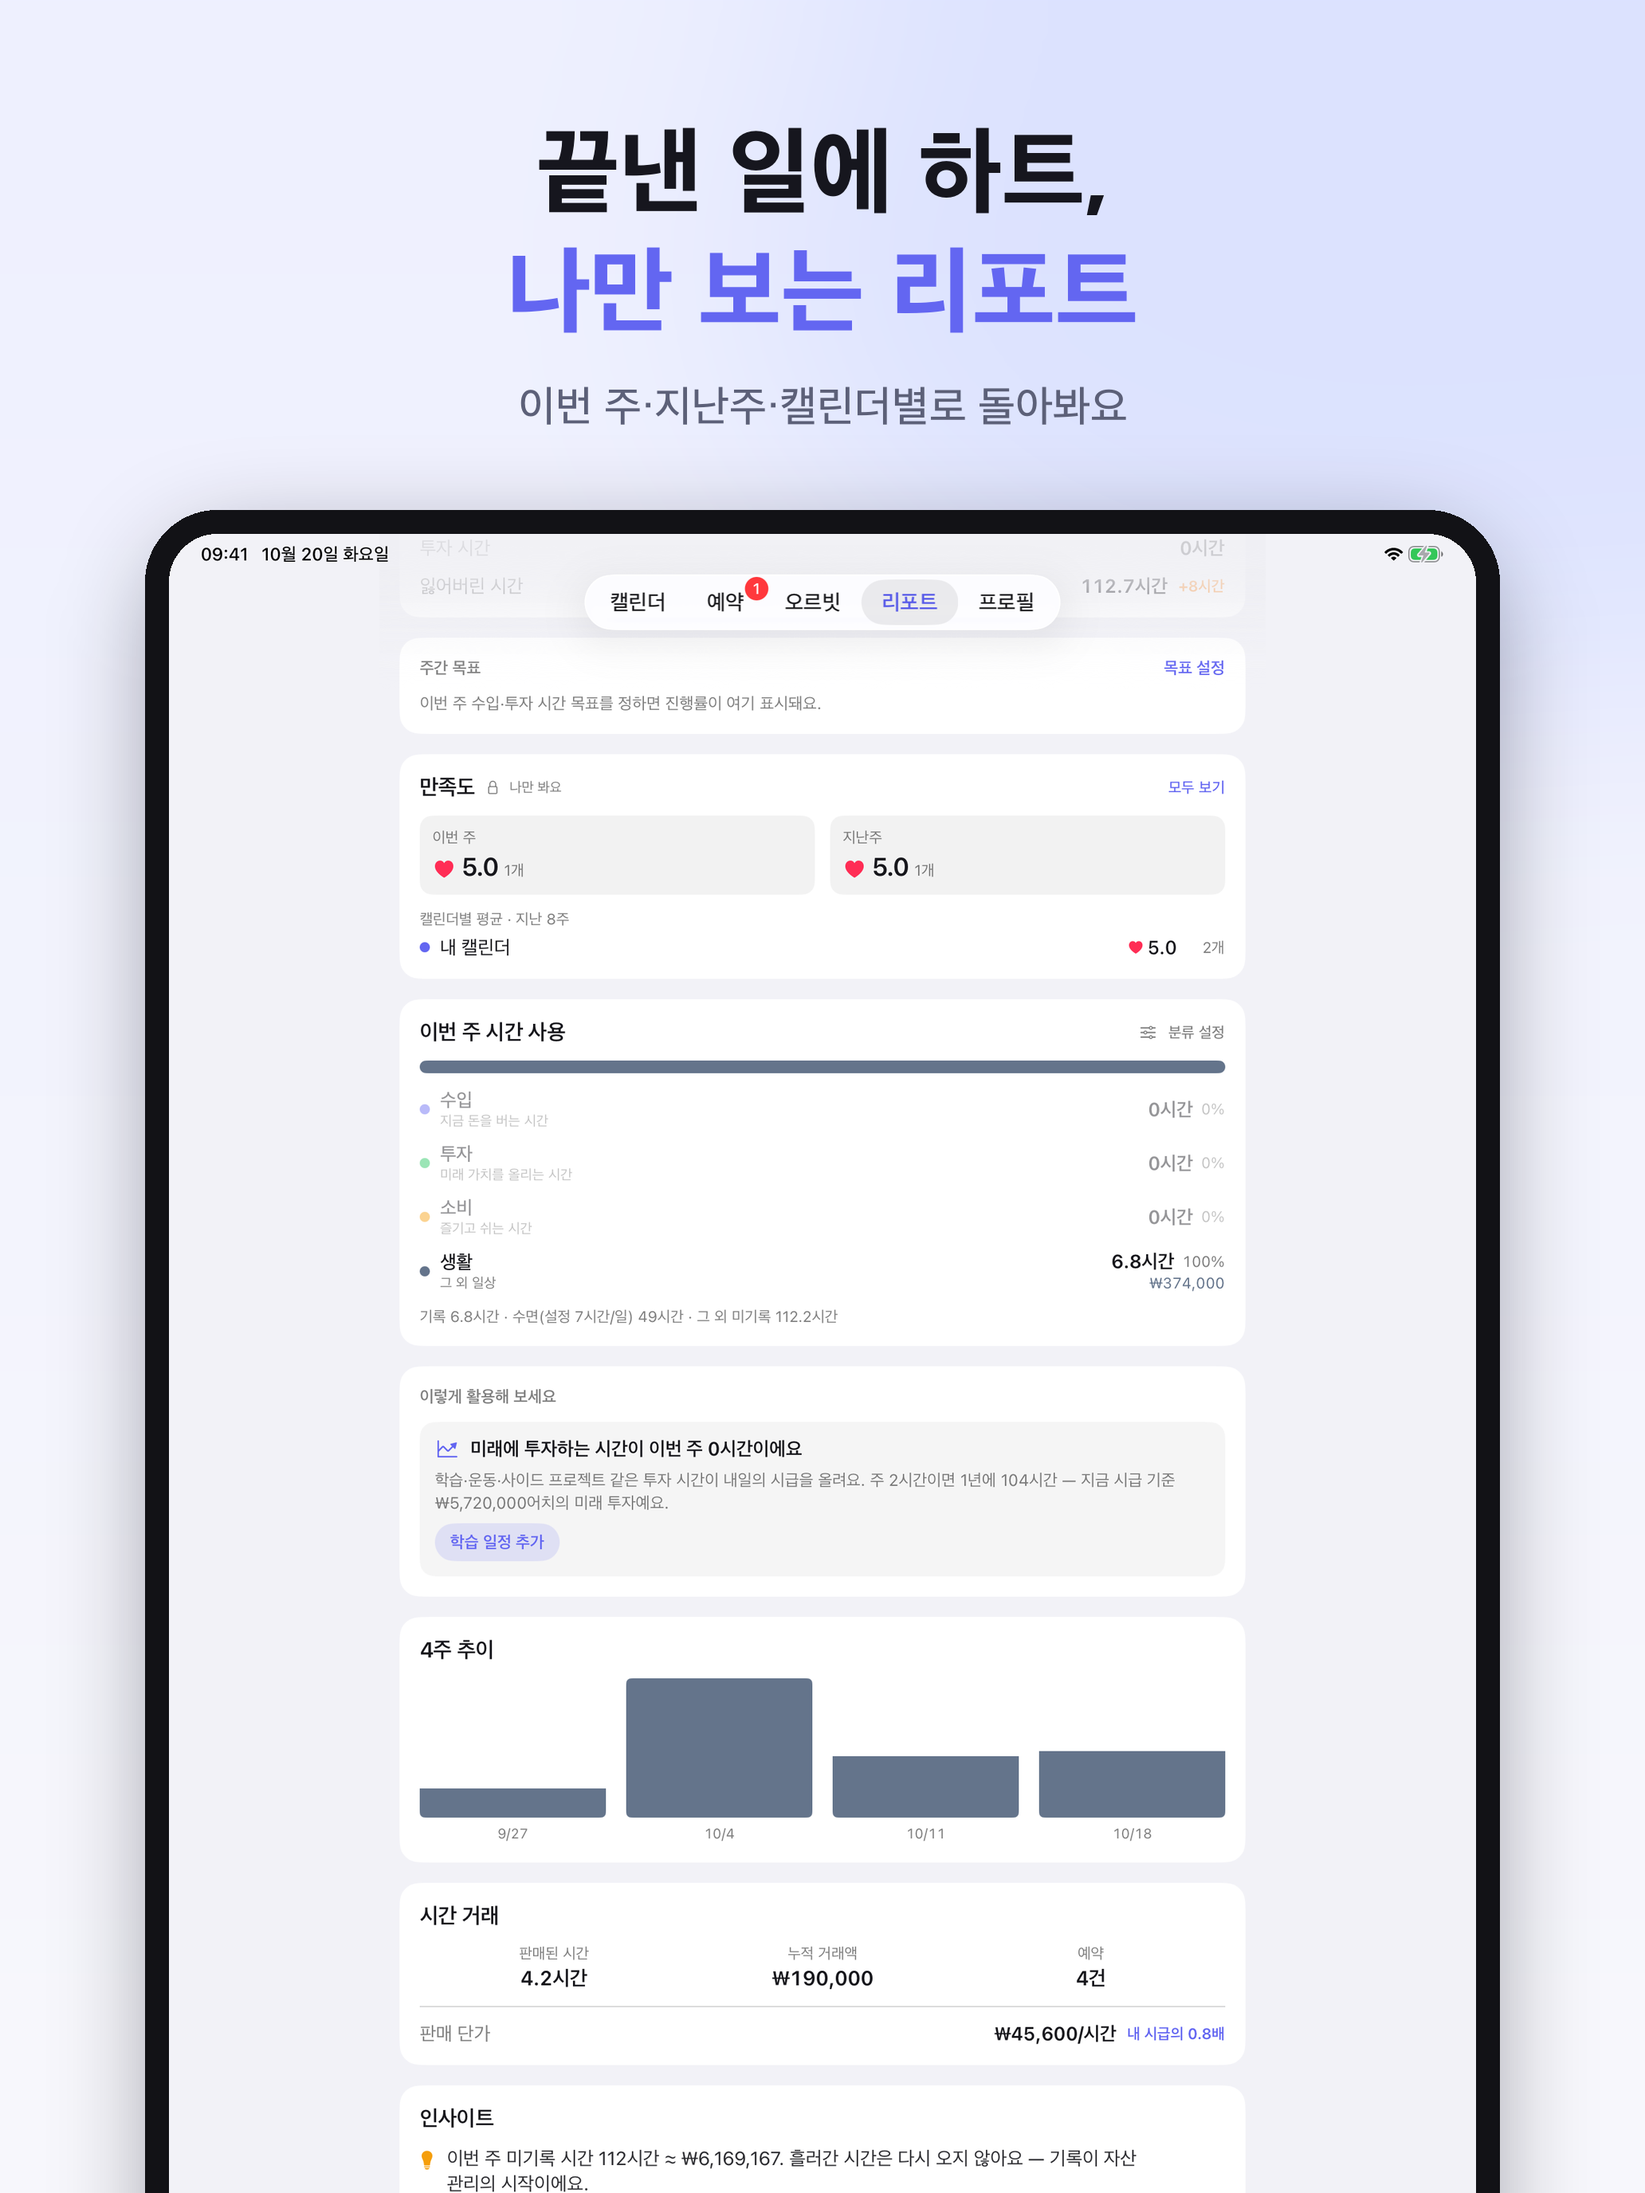
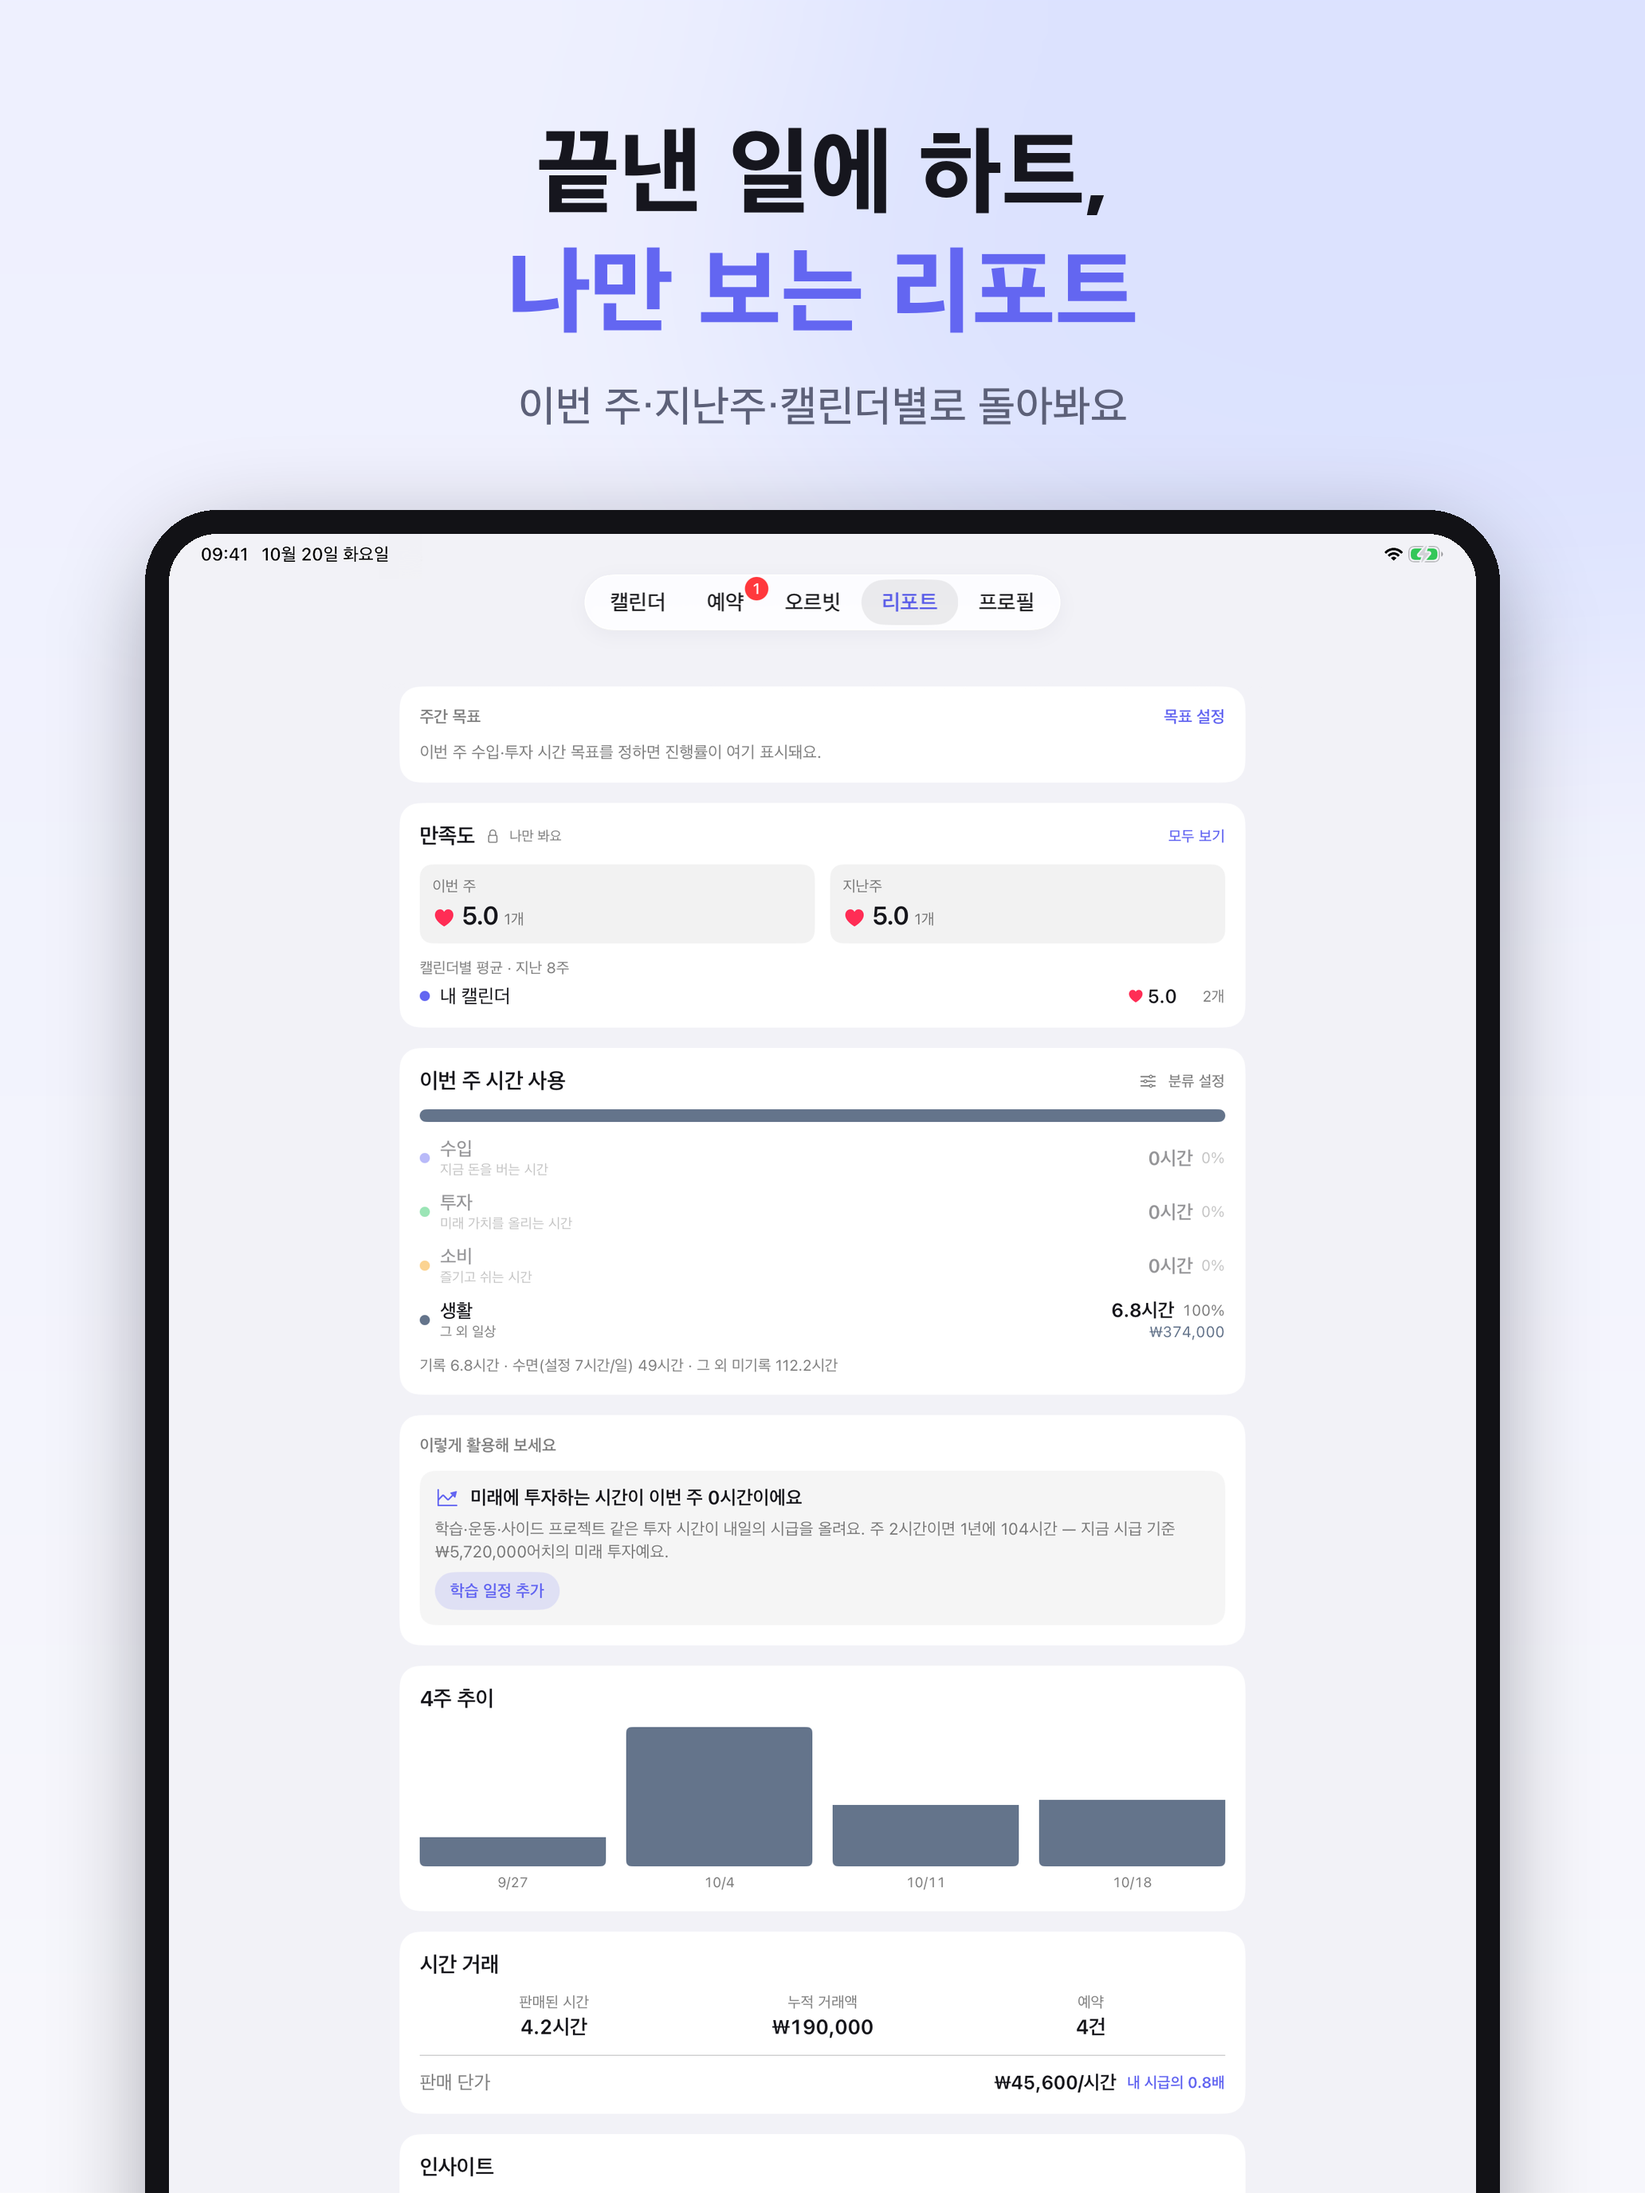
chore(ios): 1.5.3 iPad 07 리포트 재촬영 — 주간 목표 카드부터, 탭 바 옆 윗 카드 글자 띠는 배경색으로(compose_ipad.py clear_top_strip, 07만) (개선-12 검수)
Claude-Session: https://claude.ai/code/session_011zDbfnCJAshvRsxzBd4jDC

diff --git a/ios/AppStore/1.5.3/ipad/compose_ipad.py b/ios/AppStore/1.5.3/ipad/compose_ipad.py
@@ -39,6 +39,37 @@ W, H = 2064, 2752
 HERE = os.path.dirname(os.path.abspath(__file__))
 
 
+def clear_top_strip(im):
+    """07 전용(PO 10/20 B안): iPad 13"은 리포트가 짧아 만족도까지 내리면 탭 바 양옆에 윗 카드
+    (지난주 리포트)의 '수입·투자 시간·잃어버린 시간' 줄이 남는다. 상태 막대 아래~주간 목표 카드 위 띠만
+    앱 배경색으로 칠한다. 시계·배터리 글자와 탭 바 캡슐은 원본 그대로. 좌표는 raw/report.png(2064×2752) 픽셀 기준."""
+    W = im.width
+    BG = (242, 242, 247)           # 앱 배경(systemGroupedBackground) — 왼쪽 여백 (40,700)에서 잰 값
+    TOP = 236                      # 주간 목표 카드 위 경계(241px) 바로 위까지 칠함
+    PILL = (656, 64, 1407, 152)    # 탭 바 캡슐(y=108 줄의 흰 구간), 모서리 반지름 44
+    STATUS_Y, CLOCK_X, ICONS_X = 70, 400, 1860   # 상태 막대 높이, 시계 오른쪽 끝, 배터리·와이파이 왼쪽 끝
+    pill = Image.new('L', im.size, 0); ImageDraw.Draw(pill).rounded_rectangle(PILL, 44, fill=255)
+    out = im.copy(); px = out.load(); src = im.load(); pm = pill.load()
+    for y in range(TOP):
+        for x in range(W):
+            if pm[x, y]:
+                continue
+            r, g, b = src[x, y]
+            if y < STATUS_Y and (x < CLOCK_X or x > ICONS_X):
+                # 상태 막대 글자: 밝은 바탕만 배경색으로 옮기고 글자 진하기(a)는 유지
+                a = max(0.0, min(1.0, (255 - min(r, g, b)) / 200))
+                px[x, y] = tuple(int(c * a + BG[i] * (1 - a)) if a > 0.02 else BG[i] for i, c in enumerate((r, g, b)))
+            else:
+                px[x, y] = BG
+    # 지운 자리에 캡슐 그림자를 옅게 다시 그림
+    sh = Image.new('L', im.size, 0)
+    ImageDraw.Draw(sh).rounded_rectangle([PILL[0], 70, PILL[2], 160], 44, fill=60)
+    sh = sh.filter(ImageFilter.GaussianBlur(14))
+    band = Image.composite(Image.new('RGB', im.size, (200, 200, 212)), out, sh); band.paste(im, (0, 0), pill)
+    out.paste(band.crop((0, 0, W, TOP)), (0, 0))
+    return out
+
+
 def make(key, l1, l2, sub, mode, out):
     im = bg(W, H, mode).convert('RGBA'); d = ImageDraw.Draw(im)
     tc = (255, 255, 255) if mode == 'dark' else DARK
@@ -49,6 +80,8 @@ def make(key, l1, l2, sub, mode, out):
         f = font(120); w = d.textlength(txt, font=f); d.text(((W - w) / 2, y), txt, font=f, fill=col); y += 150
     f = font(54, 'medium'); w = d.textlength(sub, font=f); d.text(((W - w) / 2, y + 30), sub, font=f, fill=sc)
     shot = Image.open(os.path.join(HERE, 'raw', f'{key}.png')).convert('RGB')
+    if key == 'report':
+        shot = clear_top_strip(shot)
     pw = 1640; ph = int(shot.height * pw / shot.width); shot = shot.resize((pw, ph), Image.LANCZOS)
     bez, r = 30, 60
     dev = Image.new('RGBA', (pw + 2 * bez, ph + 2 * bez), (0, 0, 0, 0))
